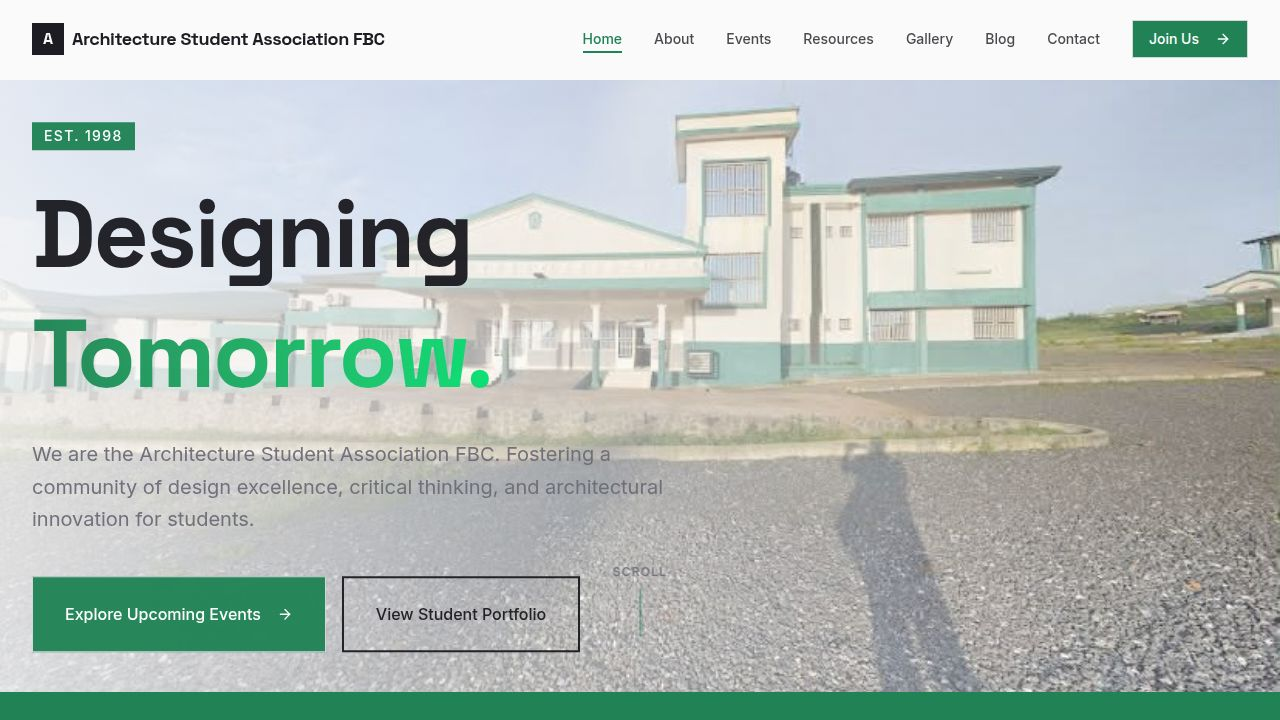
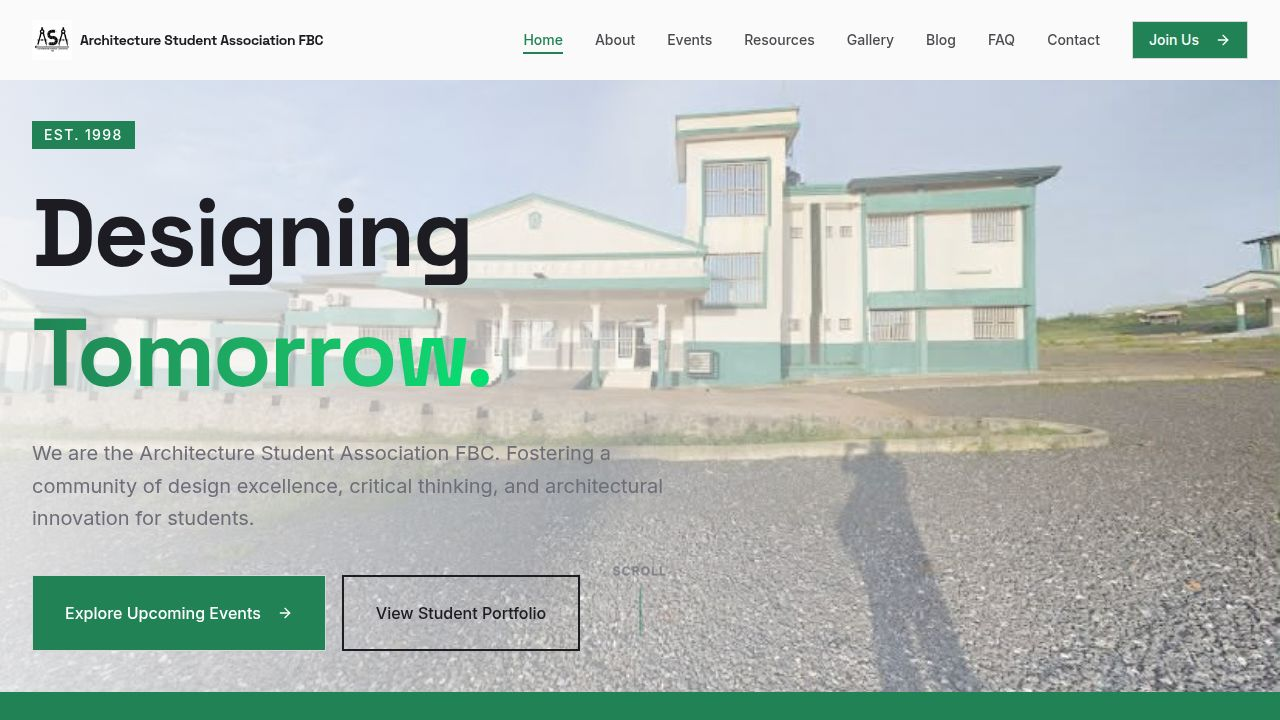
Update effective date on legal pages to 2022
Update the EFFECTIVE_DATE constant in Privacy.tsx and Terms.tsx to "2022".

Replit-Commit-Author: Agent
Replit-Commit-Session-Id: f49ca2ed-5876-466f-9a5e-fdc1c3428d53
Replit-Commit-Checkpoint-Type: full_checkpoint
Replit-Commit-Event-Id: cb777ea5-245c-4940-81c5-3c9e93edc85d
Replit-Commit-Screenshot-Url: https://storage.googleapis.com/screenshot-production-us-central1/c8d5917c-4079-411f-ac78-3e827562bb08/f49ca2ed-5876-466f-9a5e-fdc1c3428d53/an7efbF
Replit-Helium-Checkpoint-Created: true

diff --git a/artifacts/arc-website/src/pages/Privacy.tsx b/artifacts/arc-website/src/pages/Privacy.tsx
@@ -1,7 +1,7 @@
 import { PageWrapper } from "@/components/layout/PageWrapper";
 import { Link } from "wouter";
 
-const EFFECTIVE_DATE = "April 16, 2026";
+const EFFECTIVE_DATE = "2022";
 const ORG_NAME = "Architecture Student Association FBC";
 const SHORT_NAME = "ASA FBC";
 const EMAIL = "[email redacted]";

diff --git a/artifacts/arc-website/src/pages/Terms.tsx b/artifacts/arc-website/src/pages/Terms.tsx
@@ -1,7 +1,7 @@
 import { PageWrapper } from "@/components/layout/PageWrapper";
 import { Link } from "wouter";
 
-const EFFECTIVE_DATE = "April 16, 2026";
+const EFFECTIVE_DATE = "2022";
 const ORG_NAME = "Architecture Student Association FBC";
 const SHORT_NAME = "ASA FBC";
 const EMAIL = "[email redacted]";